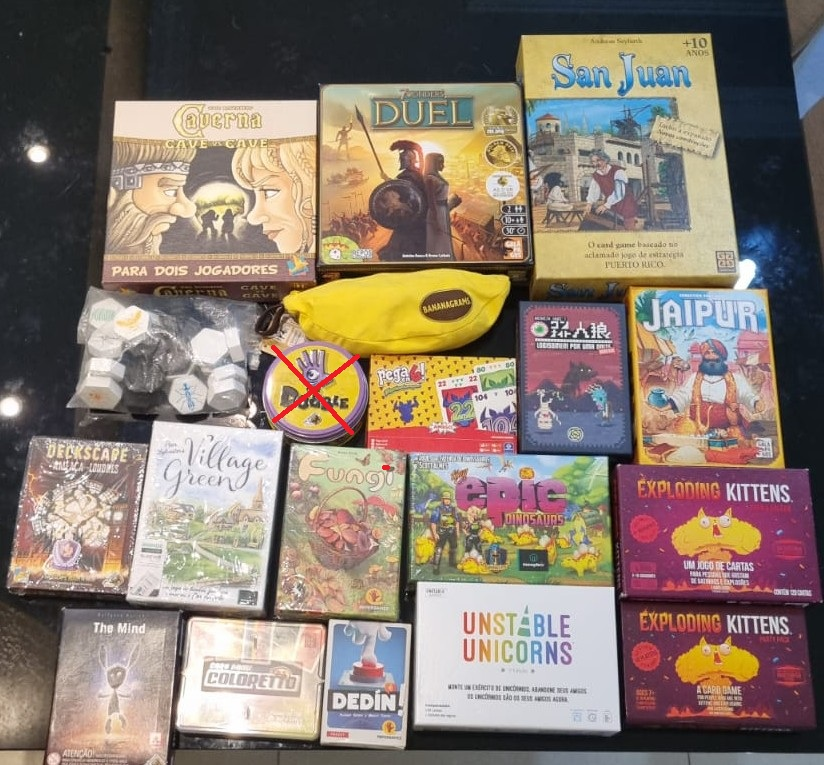
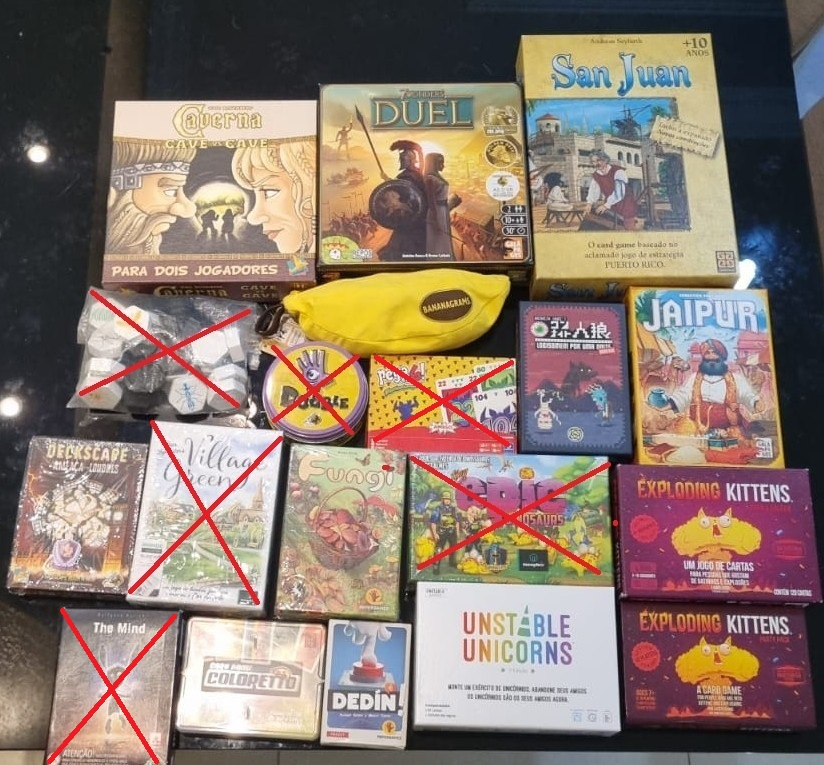
adicionando mais itens

diff --git a/dados.js b/dados.js
@@ -71,7 +71,6 @@ const ITEMS = [
     type: "venda",
     price: "Variados",
     desc: [
-        "- Pega em 6! - 70,00",
         "- Viticulture - 430,00",
         "- Expansão Viticulture: Visitantes do Charco - 50,00",
         "- Expansão Viticulture: Visitantes do Vale do Reno - 50,00",
@@ -89,7 +88,6 @@ const ITEMS = [
         "- Expansão Zombicide: Gaming Night #5: Protocolo Bluehand - 120,00",
         "- War Vikings - 130,00",
         "- San Juan (2ª Edição) - 150,00",
-        "- The Mind - 40,00",
         "- Deckscape - Ameaça em Londres - 30,00",
         "- Lobisomem Por Uma Noite - Montros - 50,00",
         "- Dedín + 2 cartas extras - 30,00",
@@ -257,6 +255,40 @@ const ITEMS = [
 
   /* ===== DEMAIS ITENS ===== */
   {
+    name: "TV LG OLED 55\" C1",
+    ativo: true,
+    category: "eletro",
+    type: "venda",
+    price: "R$ 2000,00",
+    desc: [
+        "Tipo de painel: OLED 4K (WRGB) com pixels que se autoiluminam",
+        "Resolução: 4K Ultra HD (3.840 x 2.160 pixels)",
+        "Taxa de atualização: 120Hz nativo",
+        "Processador de imagem: α7 (Alpha 7) Gen 4 ou α9 Gen 4 (dependendo da região/lote, com foco em otimização por IA)",
+        "Tecnologias HDR: Dolby Vision, HDR10 e HLG"
+    ],
+    photos: [
+        "fotos/TV LG OLED (1).jpeg",
+        "fotos/TV LG OLED (2).jpeg",
+        "fotos/TV LG OLED (3).jpeg",
+    ]
+  },
+ {
+    name: "",
+    ativo: true,
+    category: "eletro",
+    type: "venda",
+    price: "R$ 1200,00",
+    desc: [
+        ""
+    ],
+    photos: [
+        "fotos/Mesinha de Cabeceira.jpeg",
+        "fotos/Mesinha de Cabeceira 2.jpeg"
+    ]
+  },
+
+  {
     name: "Duas Mesinhas de cabeceira",
     ativo: true,
     category: "moveis",
@@ -348,6 +380,94 @@ const ITEMS = [
         "fotos/Adega Climatizada (4).jpeg",
         "fotos/Adega Climatizada (3).jpeg",
         "fotos/Adega Climatizada (2).jpeg"
+    ]
+  },
+  {
+    name: "Aspirador Mi Robot Vacuum Mop 2 PRO",
+    ativo: true,
+    category: "tecnologia",
+    type: "venda",
+    price: "R$ 1200,00",
+    desc: [
+        "Passa pano"
+    ],
+    photos: [
+        "fotos/Robô aspirador (5).jpeg",
+        "fotos/Robô aspirador (4).jpeg",
+        "fotos/Robô aspirador (1).jpeg",
+        "fotos/Robô aspirador (3).jpeg",
+        "fotos/Robô aspirador (2).jpeg",
+    ]
+  },
+  {
+    name: "Monitor SuperFrame Precision",
+    ativo: true,
+    category: "tecnologia",
+    type: "venda",
+    price: "R$ 700,00",
+    desc: [
+        "- 27 Polegadas",
+        "- Curvo",
+        "- Quad HD",
+        "- 124.4% sRGB",
+        "- FreeSync/G-Sync",
+        "- 1ms, 165Hz",
+        "- HDMI/DP"
+    ],
+    photos: [
+        "fotos/Monitor (1).jpeg",
+        "fotos/Monitor (2).jpeg"
+    ]
+  },
+  {
+    name: "Suporte de Mesa Articulado ELG F196",
+    ativo: true,
+    category: "tecnologia",
+    type: "venda",
+    price: "R$ 200,00",
+    desc: [
+        "- Possui 2 saídas USB",
+        "- Suporta 2 monitores de 17 a 35 polegadas"
+    ],
+    photos: [
+        "fotos/Braço 2 monitores (2).jpeg",
+        "fotos/Braço 2 monitores (1).jpeg"
+    ]
+  },
+  {
+    name: "Naguile Pequeno Triton",
+    ativo: true,
+    category: "outros",
+    type: "venda",
+    price: "R$ 360,00",
+    desc: [
+        "- Rosh Artisan Prime - Marca : SAKAMOTO",
+        "- Papel Alumínio - Predator Skin Edition - 50 Folhas",
+        "- Papel Alumínio - Predator Classic Edition - 30 Folhas",
+        "- Tela p/ Rosh - Marca : Sultan",
+        "- Kit Limpeza com 2 escovas",
+        "- Tapete",
+        "- Naguile Pequeno Triton",
+        "- Vaso",
+        "- Fogareiro 110v",
+        "- Abafador",
+        "- Pegador"
+    ],
+    photos: [
+        "fotos/Narguile (6).jpeg",
+        "fotos/Narguile (4).jpeg",
+        "fotos/Narguile (2).jpeg",
+        "fotos/Narguile (3).jpeg",
+        "fotos/Narguile (5).jpeg",
+        "fotos/Narguile (1).jpeg",
+        "fotos/Narguile (11).jpeg",
+        "fotos/Narguile (12).jpeg",
+        "fotos/fogareiro (1).jpeg",
+        "fotos/fogareiro (2).jpeg",
+        "fotos/Narguile (7).jpeg",
+        "fotos/Narguile (8).jpeg",
+        "fotos/Narguile (9).jpeg",
+        "fotos/Narguile (10).jpeg"
     ]
   },
   {
@@ -1032,7 +1152,7 @@ const ITEMS = [
     type: "venda",
     price: "R$ 350,00",
     desc: [
-        "- 220V 7800W"
+        "220V 7800W"
     ],
     photos: [
         "fotos/Chuveiro 220v.jpeg",
@@ -1058,7 +1178,7 @@ const ITEMS = [
   },
   {
     name: "Caixa de Som Tomate mts 2026",
-    ativo: true,
+    ativo: false,
     category: "tecnologia",
     type: "venda",
     price: "R$ 450,00",
@@ -1073,57 +1193,6 @@ const ITEMS = [
         "fotos/Caixa de som (2).jpeg",
         "fotos/Caixa de som (1).jpeg",
         "fotos/Caixa de som (4).jpeg"
-    ]
-  },
-  {
-    name: "Suporte de Mesa Articulado ELG F196 ",
-    ativo: true,
-    category: "tecnologia",
-    type: "venda",
-    price: "R$ 200,00",
-    desc: [
-        "- Possui 2 saídas USB",
-        "- Suporta 2 monitores de 17 a 35 polegadas"
-    ],
-    photos: [
-        "fotos/Braço 2 monitores (2).jpeg",
-        "fotos/Braço 2 monitores (1).jpeg"
-    ]
-  },
-  {
-    name: "Naguile Pequeno Triton",
-    ativo: true,
-    category: "outros",
-    type: "venda",
-    price: "R$ 360,00",
-    desc: [
-        "- Rosh Artisan Prime - Marca : SAKAMOTO",
-        "- Papel Alumínio - Predator Skin Edition - 50 Folhas",
-        "- Papel Alumínio - Predator Classic Edition - 30 Folhas",
-        "- Tela p/ Rosh - Marca : Sultan",
-        "- Kit Limpeza com 2 escovas",
-        "- Tapete",
-        "- Naguile Pequeno Triton",
-        "- Vaso",
-        "- Fogareiro 110v",
-        "- Abafador",
-        "- Pegador"
-    ],
-    photos: [
-        "fotos/Narguile (6).jpeg",
-        "fotos/Narguile (4).jpeg",
-        "fotos/Narguile (2).jpeg",
-        "fotos/Narguile (3).jpeg",
-        "fotos/Narguile (5).jpeg",
-        "fotos/Narguile (1).jpeg",
-        "fotos/Narguile (11).jpeg",
-        "fotos/Narguile (12).jpeg",
-        "fotos/fogareiro (1).jpeg",
-        "fotos/fogareiro (2).jpeg",
-        "fotos/Narguile (7).jpeg",
-        "fotos/Narguile (8).jpeg",
-        "fotos/Narguile (9).jpeg",
-        "fotos/Narguile (10).jpeg"
     ]
   }
 ];
